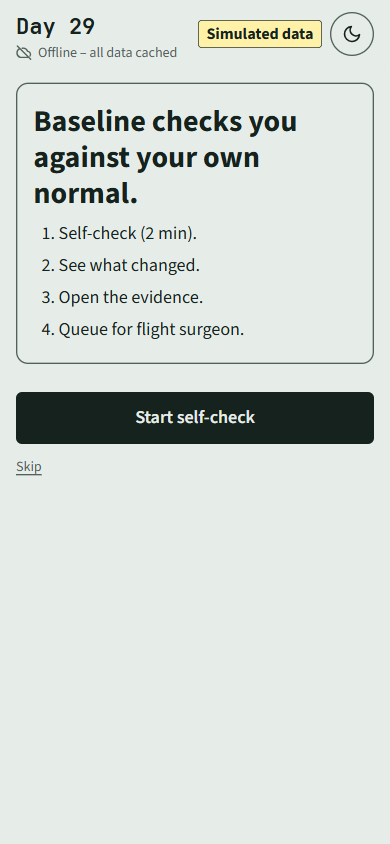
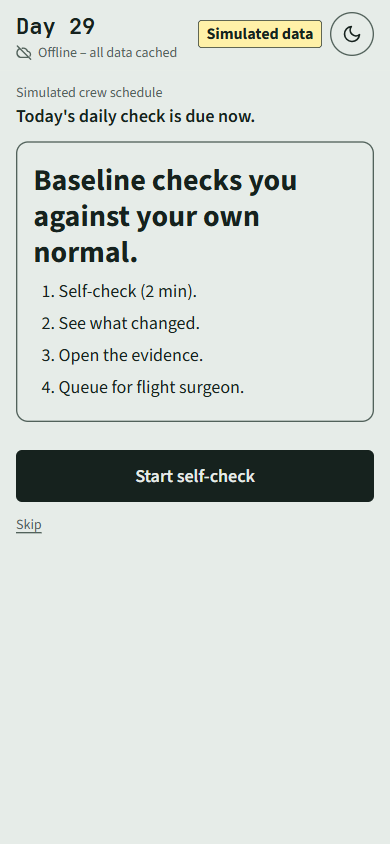
Item 4c: daily check prompt on the first screen, from the simulated crew schedule

Changed region(s): [[0.0308, 0.0924, 0.9846, 0.6469], [0.9538, 0.1232, 0.9846, 0.1848]]

diff --git a/index.html b/index.html
@@ -10,7 +10,7 @@
 <link rel="preload" href="fonts/jb-mono-regular.woff2?v=366a644383" as="font" type="font/woff2" crossorigin>
 <link rel="stylesheet" href="tokens.css?v=3c1d51d7bf">
 <script src="errors.js?v=8cd9c76036"></script>
-<script src="theme.js?v=47ec0d1ced"></script>
+<script src="theme.js?v=bb3d7a5525"></script>
 <style>
 * { box-sizing: border-box; }
 html { -webkit-text-size-adjust: 100%; }
@@ -94,6 +94,9 @@ a { color: inherit; text-underline-offset: 3px; }
 .rt-big { font-family: var(--mono); font-size: 36px; line-height: 1.1; font-weight: 600; font-variant-numeric: tabular-nums; }
 #rt-again { display: block; }
 
+.daily { margin: 12px 0 0; font-weight: 600; }
+.daily > span { display: block; }
+.daily .meta { font-weight: 400; }
 .guide { margin-top: 12px; padding: 20px 16px; border: 1.5px solid var(--strong); border-radius: 12px; }
 .guide h1 { margin-top: 0; }
 .guide ol { margin: 0; padding-left: 1.4em; }
@@ -273,6 +276,7 @@ fieldset { border: 0; padding: 0; margin: 28px 0 0; min-width: 0; }
 <main>
 
 <section id="guide" aria-labelledby="guide-title">
+  <p class="daily"><span class="meta">Simulated crew schedule</span><span id="daily-line"></span></p>
   <div class="guide">
     <h1 id="guide-title" tabindex="-1">Baseline checks you against your own normal.</h1>
     <ol>
@@ -522,6 +526,6 @@ fieldset { border: 0; padding: 0; margin: 28px 0 0; min-width: 0; }
 <script src="spe.js?v=cdf73caa73"></script>
 <script src="reaction.js?v=0c373ca889"></script>
 <script src="store.js?v=986788a7d2"></script>
-<script src="app.js?v=02552db482"></script>
+<script src="app.js?v=636926be8c"></script>
 </body>
 </html>

diff --git a/theme.js b/theme.js
@@ -14,13 +14,20 @@
   function saved() {
     try { const t = localStorage.getItem(KEY); return t === "light" || t === "dark" ? t : null; } catch (e) { return null; }
   }
+  // The daily check prompt on the first screen, from the same schedule. saved: the checks on this device (Store.load()),
+  // empty when storage is blocked. Local dates, because saved_at is in UTC. Worked out when the screen is drawn: no timer.
+  function dailyLine(now, saved) {
+    if (saved.some((e) => new Date(e.saved_at).toDateString() === now.toDateString())) return "Today's daily check is done.";
+    if (now.getHours() < SLEEP_END_HOUR) return `Next daily check: ${String(SLEEP_END_HOUR).padStart(2, "0")}:00 (after the planned sleep window).`;
+    return "Today's daily check is due now.";
+  }
   const current = () => document.documentElement.getAttribute("data-theme");
   function set(theme) {
     document.documentElement.setAttribute("data-theme", theme);
     try { localStorage.setItem(KEY, theme); } catch (e) { /* storage blocked: keep it for this visit only */ }
   }
 
-  const api = { SLEEP_START_HOUR, SLEEP_END_HOUR, byClock, current, set };
+  const api = { SLEEP_START_HOUR, SLEEP_END_HOUR, byClock, dailyLine, current, set };
   if (typeof module === "object" && module.exports) module.exports = api;
   else {
     root.Theme = api;

diff --git a/app.js b/app.js
@@ -290,6 +290,7 @@ function openCheck(check, kept) {
 
 function renderSavedBox() {
   const log = Store.load(), last = log.at(-1);
+  put($("daily-line"), Theme.dailyLine(new Date(), log));
   $("saved-box").hidden = !last;
   if (last) put($("saved-text"), `${log.length} ${log.length === 1 ? "self-check is" : "self-checks are"} saved on this device. The latest is from ${when(last.saved_at)}.`);
 }
